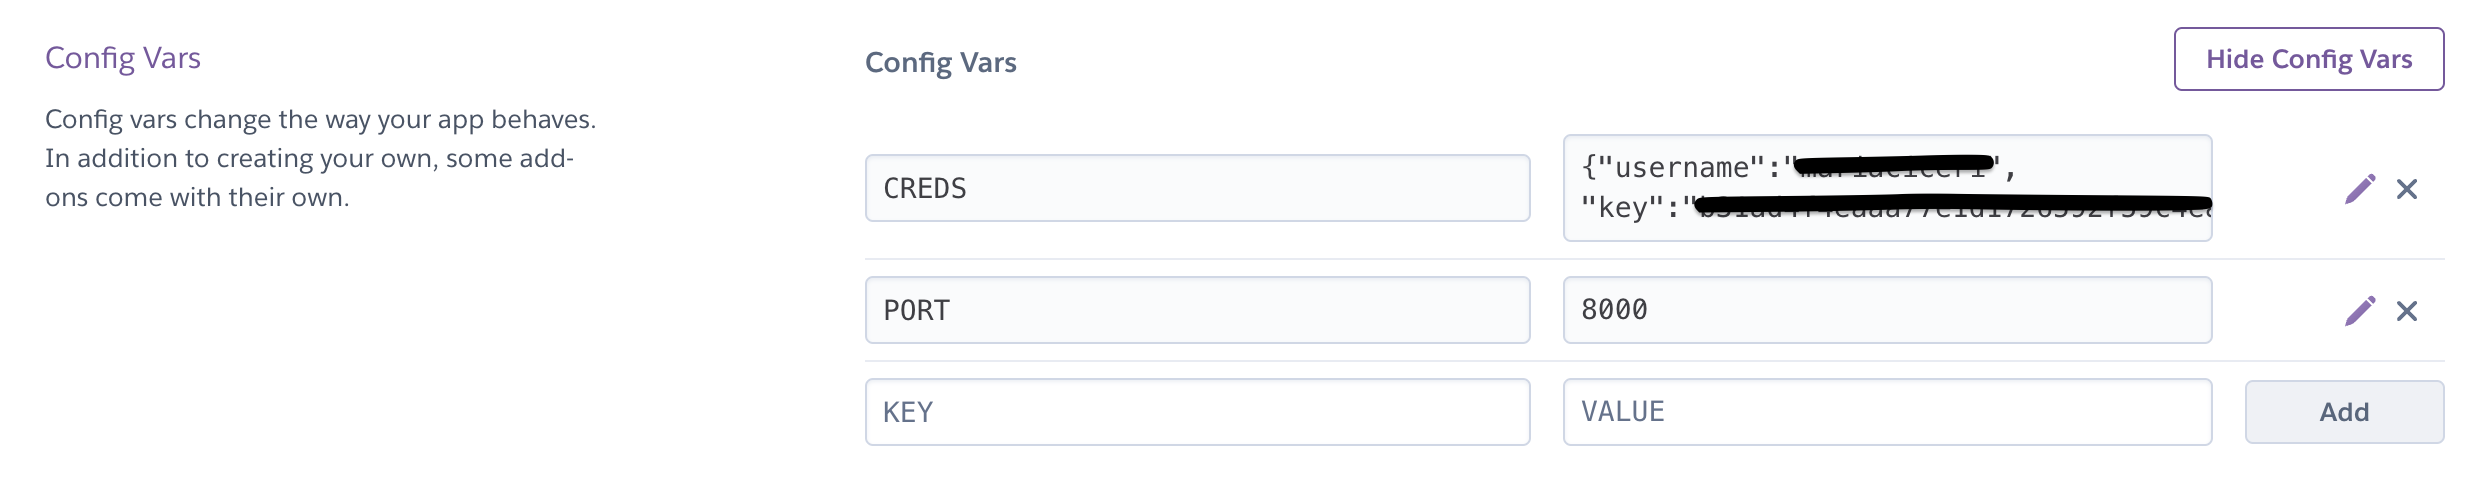
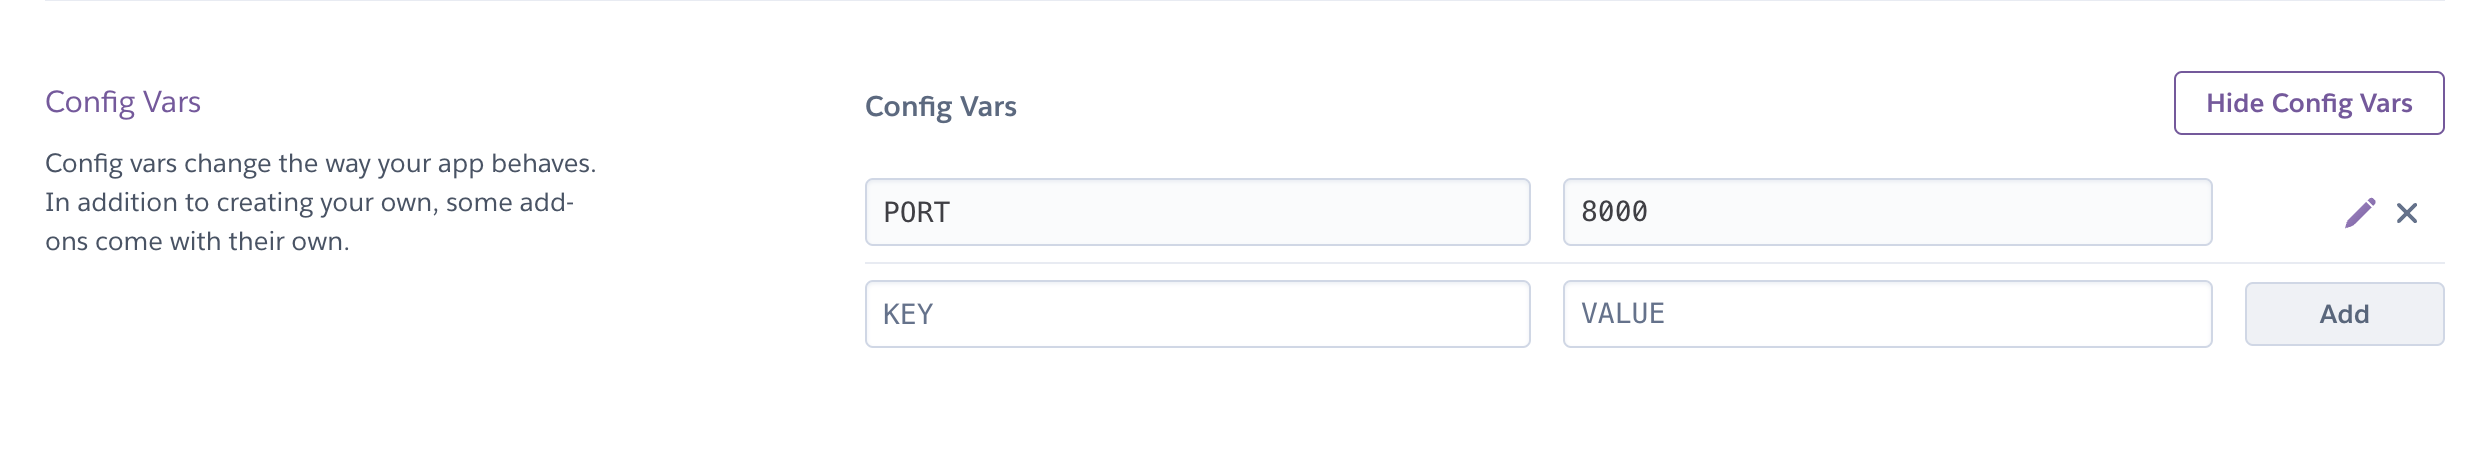
Add Run Locally section in Deployment

diff --git a/README.md b/README.md
@@ -88,26 +88,35 @@ In this project, the OOP principles of encapsulation and separation of concerns 
 
 ### Deployment to Heroku
 
-+ Clone the repository from GitHub page by running the command `git clone https://github.com/mariaciceri/movie-recommendation`;
-+ On the terminal, download the dataset into your computer by running the command `kaggle datasets download harshitshankhdhar/imdb-dataset-of-top-1000-movies-and-tv-shows`;
-+ On the terminal, create a .kaggle directory using the command (`mkdir .kaggle`) on your main directory;
-+ Move the downloaded file(named 'kaggle') into .kaggle using the command `mv <source_path> <destination_path>`;
++ Clone the repository from GitHub page by running the command `git clone https://github.com/mariaciceri/movie-recommendation.git`;
 + Save the project on your own GitHub account by using the command `git push`
 + Create a new Heroku app by clicking on "New" and then "Create new app" on their page;
 ![Heroku menu with new app creating menu](/docs/images/heroku-new-app.png)
++ In the Deploy tab, look for "Deployment method" and select GitHub;
+![Heroku menu with deploy selected](/docs/images/heroku-deploy.png)
++ Connect to your GitHub account if not done already and right below it, find your repository and connect to Heroku;
+![Heroku Deployment method and App connected to GitHub](/docs/images/heroku-github.png)
 + Give your app a unique name and set the region accordingly. Click create app.
 + In the Settings tab, add to the buildpacks Python and NodeJS scripts in that order;
 ![Heroku menu after creating a new app with "Settings" selected](/docs/images/heroku-settings.png)
 ![Heroku buildpacks](/docs/images/heroku-buildpacks.png)
-+ In the Settings tab, set two Config Vars:
-    + CREDS(key): The information inside the kaggle file you downloaded previously(value)
++ In the Settings tab, set one Config Vars:
     + PORT(key): 8000(value)
 ![Heroku config vars](/docs/images/heroku-config-vars.png)
 + In the Deploy tab, scroll down to Manual Deploy, confirm that you are deploying from "main" and click on "Deploy Branch";
-![Heroku menu with deploy selected](/docs/images/heroku-deploy.png)
 ![Heroku Manual deploy](/docs/images/heroku-manual-deploy.png)
 + Alternatively, enable "Enable Automatic Deploys";
 ![Heroku Automatic deploy](/docs/images/heroku-automatic-deploy.png)
++ It may take a couple of minutes to deploy, after completed, a "View" button will be available and it will take you to the deployed page.
+
+### Run locally
+
++ If Python ins't installed, download from the [official webpage](https://www.python.org/downloads/).
++ For this project to run with all its functionalities, install:
+    + `pip install colored InquirerPy pandas tabulate`
++ Clone the repository from GitHub page by running the command `git clone https://github.com/mariaciceri/movie-recommendation.git` 
++ Alternatively, download it as a ZIP file from `https://github.com/mariaciceri/movie-recommendation` and extract it to a chosen location in your computer;
+
 
 ## Testing
 ### Manual Testing
